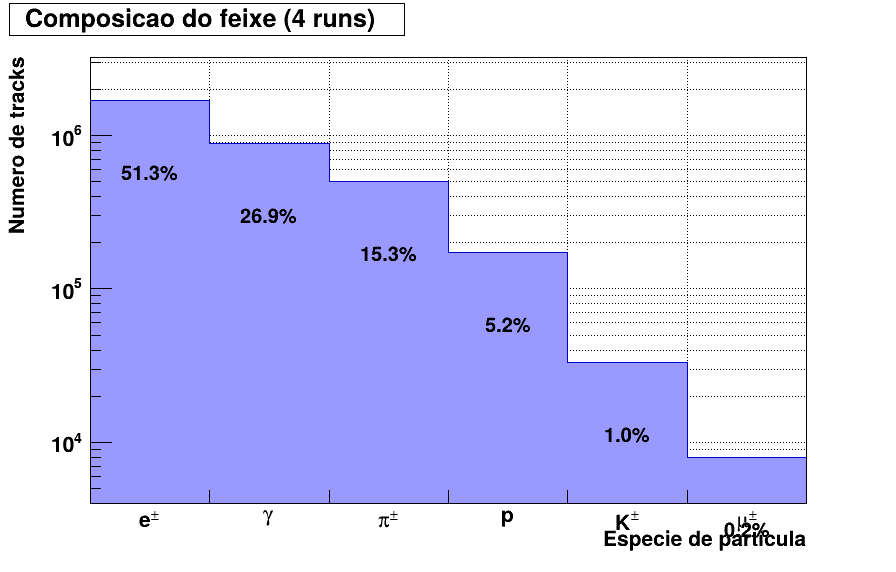
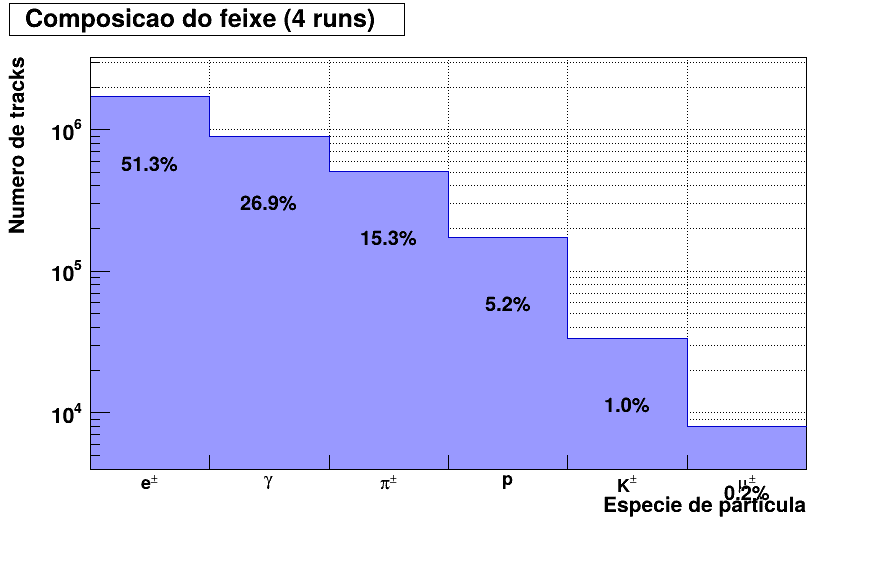
fix: corrigir label µ± cortado no gráfico de composição do feixe
O label do µ± no eixo X estava cortado/sobreposto com a percentagem.
Aumentada a margem inferior do canvas de 0.12 para 0.18 e reduzido o tamanho
dos labels do eixo X de 0.06 para 0.05. Plot composicao_feixe.png regenerado.

diff --git a/analysis/energy_deposition.py b/analysis/energy_deposition.py
@@ -81,7 +81,7 @@ def plot_beam_composition():
     canvas = ROOT.TCanvas("c_beam", "", 900, 600)
     canvas.SetLogy()
     canvas.SetGrid()
-    canvas.SetBottomMargin(0.12)
+    canvas.SetBottomMargin(0.18)
 
     n = len(nomes)
     hbar = ROOT.TH1D("hBeam",
@@ -94,7 +94,7 @@ def plot_beam_composition():
 
     hbar.SetFillColor(ROOT.kBlue - 9)
     hbar.SetLineColor(ROOT.kBlue + 1)
-    hbar.GetXaxis().SetLabelSize(0.06)
+    hbar.GetXaxis().SetLabelSize(0.05)
     hbar.GetYaxis().SetTitleOffset(1.3)
 
     ROOT.gStyle.SetOptStat(0)
